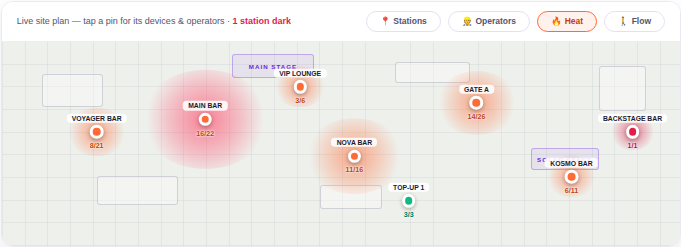
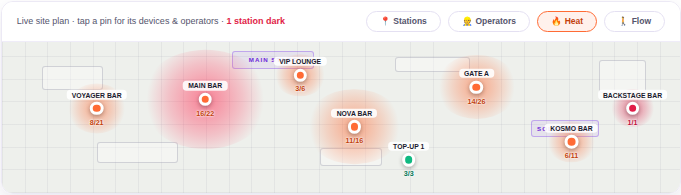
Sales pitch pack v8: bar & operator performance with River view mockup
Event Ops page gains a Bar & operator performance feature and a mockup of
the Flow board's River view in operators-only mode: one flowing lane per
bartender whose width is money through that till, with per-operator sales
and rands-per-hour, a star performer and an idle-till flag. Deck ops slide
carries the River image alongside the site map; live-updates and alerts
bullets merged to fit.

Claude-Session: https://claude.ai/code/session_016kfeoZ1Zgn8t5cLdc8YKFo

diff --git a/docs/sales-collateral/pulse-pitch.src.html b/docs/sales-collateral/pulse-pitch.src.html
@@ -128,13 +128,13 @@
   .jconv { margin-top: 2.4mm; font-size: 9px; font-weight: 800; color: #059669; }
 
   /* ---------- Site map mockup ---------- */
-  .sitemap { margin-top: 5mm; border: 1px solid #ece9f5; border-radius: 12px; overflow: hidden; box-shadow: 0 2mm 5mm rgba(45,43,85,.10); }
+  .sitemap { margin-top: 4mm; border: 1px solid #ece9f5; border-radius: 12px; overflow: hidden; box-shadow: 0 2mm 5mm rgba(45,43,85,.10); }
   .sm-bar { display: flex; align-items: center; gap: 2mm; padding: 2.4mm 4mm; background: #fff; border-bottom: 1px solid #efecf8; }
   .sm-bar .cap { font-size: 9px; color: #55556d; margin-right: auto; }
   .sm-bar .cap b.dark { color: #e11d48; }
   .sm-tab { font-size: 8.5px; font-weight: 800; border: 1px solid #e4e0f2; border-radius: 99px; padding: 1.2mm 3.4mm; color: #55556d; }
   .sm-tab.on { background: #fff1ec; border-color: #FF6B35; color: #c2410c; }
-  .sm-map { position: relative; height: 54mm; background: #eef0ec;
+  .sm-map { position: relative; height: 40mm; background: #eef0ec;
     background-image: repeating-linear-gradient(0deg, rgba(45,43,85,.06) 0, rgba(45,43,85,.06) .25mm, transparent .25mm, transparent 6mm),
                       repeating-linear-gradient(90deg, rgba(45,43,85,.06) 0, rgba(45,43,85,.06) .25mm, transparent .25mm, transparent 6mm); }
   .blk { position: absolute; border: .4mm solid rgba(45,43,85,.18); background: rgba(255,255,255,.35); border-radius: .8mm; }
@@ -239,10 +239,27 @@
   .adchip { font-size: 6.8px; font-weight: 800; border-radius: 99px; padding: 1mm 2.4mm; background: rgba(16,185,129,.12); color: #047857; }
   .ad-note { font-size: 7.2px; color: #9a97ad; padding: 0 3mm 2.6mm; }
 
+  /* ---------- River (operators) mockup ---------- */
+  .river { margin-top: 3.5mm; border: 1px solid #ece9f5; border-radius: 12px; overflow: hidden; box-shadow: 0 2mm 5mm rgba(45,43,85,.10); }
+  .rv-bar { display: flex; align-items: center; gap: 2mm; padding: 2.2mm 4mm; background: #fff; border-bottom: 1px solid #efecf8; }
+  .rv-bar .cap { font-size: 9px; color: #55556d; margin-right: auto; }
+  .rv-body { background: #fdfdfb; padding: 2mm 4mm 1.2mm; }
+  .rv-row { display: flex; align-items: center; gap: 3mm; margin-bottom: .9mm; }
+  .rv-who { width: 26mm; flex-shrink: 0; }
+  .rv-who b { font-size: 8.4px; display: block; }
+  .rv-who span { font-size: 6.8px; color: #9a97ad; }
+  .rv-lane { flex: 1; height: 5.8mm; }
+  .rv-lane svg { width: 100%; height: 100%; display: block; }
+  .rv-num { width: 25mm; flex-shrink: 0; text-align: right; }
+  .rv-num b { font-size: 8.8px; display: block; }
+  .rv-num span { font-size: 6.8px; color: #9a97ad; }
+  .rv-num .warn { color: #e11d48; font-weight: 800; }
+  .rv-axis { display: flex; justify-content: space-between; font-size: 6.6px; color: #9a97ad; padding: 1mm 4mm 0 33mm; margin-right: 25mm; }
+
   /* ---------- Page 5 event ops ---------- */
   .ops-wrap { display: flex; gap: 6mm; margin-top: 5mm; }
-  .ops-feats { flex: 1.06; display: flex; flex-direction: column; gap: 2.9mm; }
-  .ops-feat { font-size: 10.3px; line-height: 1.5; color: #44445c; }
+  .ops-feats { flex: 1.06; display: flex; flex-direction: column; gap: 2.4mm; }
+  .ops-feat { font-size: 9.7px; line-height: 1.42; color: #44445c; }
   .ops-feat b { color: #1a1a2e; font-weight: 800; }
   .opsboard { width: 84mm; border: 1px solid #ece9f5; border-radius: 12px; overflow: hidden; box-shadow: 0 3mm 6mm rgba(45,43,85,.12); align-self: flex-start; }
   .opsboard .ob-head { background: #1a1a2e; color: #fff; padding: 2.6mm 3.5mm; display: flex; justify-content: space-between; align-items: center; }
@@ -583,11 +600,11 @@
     <div class="ops-feats">
       <div class="ops-feat"><b>🗺 The live overview</b>: one board with the whole operation: device counts by state, per-station deployment, open issues and a live activity feed. The "where is everything right now" view.</div>
       <div class="ops-feat"><b>📟 Every device tracked</b>: scanners, payment devices, radios, printers: bulk-register a batch, then <b>scan to move</b> between the store and stations. Every move lands in an append-only audit trail, nothing is lost to memory, and every device is accounted for at event close.</div>
-      <div class="ops-feat"><b>🔥 Hotspots &amp; the heat map</b>: every station's activity through the day in time blocks: watch the crowd move from gates to bars, spot the station that's overloaded and the one that's dead, and staff accordingly, tonight and next year.</div>
+      <div class="ops-feat"><b>🔥 Hotspots &amp; the heat map</b>: every station's activity in time blocks: watch the crowd move from gates to bars, spot the overloaded station and the dead one, staff accordingly.</div>
+      <div class="ops-feat"><b>🍹 Bar &amp; operator performance</b>: every bar and every bartender, live: sales and rands-per-hour per operator, who's flying and which till has gone quiet. Praise the stars at the debrief; fix the slow lane before the queue grows.</div>
       <div class="ops-feat"><b>📶 Connectivity &amp; data health</b>: is data from every station actually arriving? Minutes-since-last-record per station with alerting when a stream goes quiet; a device roster showing exactly <b>which units are offline and for how long</b>. You'll know a scanner died before the queue does.</div>
-      <div class="ops-feat"><b>🩺 AI Diagnose + event report</b>: one tap per station gets an AI verdict with ranked concerns and a suggested fix; after the event, an AI-drafted diagnostics report for the debrief, with a connectivity section clean enough to forward to the network provider.</div>
-      <div class="ops-feat"><b>⚡ Live updates while doors are open</b>: a compact multi-metric report to the team every 15–120 minutes: people through the gates with pace per hour, bar revenue, top-3 vendors, device health, % of last year, to inbox, push, SMS and WhatsApp.</div>
-      <div class="ops-feat"><b>🚨 Alerts on any number</b>: "tell me when VIP drops below 100": Pulse watches it and taps you on the shoulder the moment it crosses. Cooldowns and quiet hours keep it calm.</div>
+      <div class="ops-feat"><b>🩺 AI Diagnose + event report</b>: one-tap AI verdicts per station, and a post-event diagnostics report clean enough to forward to the network provider.</div>
+      <div class="ops-feat"><b>⚡ Live updates &amp; alerts</b>: a compact multi-metric report every 15–120 minutes while doors are open (gates pace, bar revenue, top vendors, device health) to inbox, push, SMS and WhatsApp, plus threshold alerts on any number, with cooldowns and quiet hours.</div>
     </div>
 
     <div class="opsboard">
@@ -655,20 +672,41 @@
   </div>
   <div style="font-size:9px; color:#9a97ad; margin-top:1.6mm; font-style:italic;">Your venue's own site plan, live: every station pinned, heat showing where the crowd is spending right now, and a dark station flagged the moment its data stops flowing.</div>
 
-  <div style="display:flex; gap:4mm; margin-top:4mm;">
-    <div style="flex:1; border-radius:12px; padding:4mm 4.5mm; color:#fff; background:linear-gradient(135deg,#06B6D4,#0891b2);">
-      <div style="font-size:11.5px; font-weight:900; margin-bottom:1.6mm;">🧾 At event close</div>
-      <div style="font-size:9.8px; line-height:1.5; opacity:.94;">Every device accounted for, no "missing" unknowns, and a full history of where each one went, who moved it and what went wrong.</div>
+    <div class="river">
+    <div class="rv-bar">
+      <div class="cap">🌊 The River · every operator's night as a flowing lane · <b>👤 Operators · all bars</b></div>
+      <span class="sm-tab">🐝 Board</span><span class="sm-tab">📈 Rhythm</span><span class="sm-tab on">🌊 River</span><span class="sm-tab">🕸 Network</span>
     </div>
-    <div style="flex:1; border-radius:12px; padding:4mm 4.5mm; color:#fff; background:linear-gradient(135deg,#7C3AED,#5b21b6);">
-      <div style="font-size:11.5px; font-weight:900; margin-bottom:1.6mm;">📱 The whole night, one thread</div>
-      <div style="font-size:9.8px; line-height:1.5; opacity:.94;">Live updates stack into a single inbox thread, scroll the night's story at the debrief, from doors to last call.</div>
-    </div>
-    <div style="flex:1; border-radius:12px; padding:4mm 4.5mm; color:#fff; background:linear-gradient(135deg,#1a1a2e,#2d2b55);">
-      <div style="font-size:11.5px; font-weight:900; margin-bottom:1.6mm;">📶 Evidence, not arguments</div>
-      <div style="font-size:9.8px; line-height:1.5; opacity:.94;">If connectivity was the culprit, the AI report gives you a neutral, data-backed section you can forward straight to the network provider.</div>
+    <div class="rv-body">
+      <div class="rv-row">
+        <div class="rv-who"><b>Thabo M.</b><span>Main Bar · till 4</span></div>
+        <div class="rv-lane"><svg viewBox="0 0 300 26" preserveAspectRatio="none"><polygon points="0.0,10 42.9,7 85.7,4 128.6,2 171.4,4 214.3,1 257.1,3 300.0,6 300.0,20 257.1,23 214.3,25 171.4,22 128.6,24 85.7,22 42.9,19 0.0,16" fill="#FF385C" opacity="0.8"/></svg></div>
+        <div class="rv-num"><b>R48 250</b><span>412 sales · R8.0k/hr ⭐</span></div>
+      </div>
+      <div class="rv-row">
+        <div class="rv-who"><b>Lerato K.</b><span>Main Bar · till 2</span></div>
+        <div class="rv-lane"><svg viewBox="0 0 300 26" preserveAspectRatio="none"><polygon points="0.0,11 42.9,8 85.7,5 128.6,4 171.4,3 214.3,4 257.1,5 300.0,7 300.0,19 257.1,21 214.3,22 171.4,23 128.6,22 85.7,21 42.9,18 0.0,15" fill="#FF6B35" opacity="0.8"/></svg></div>
+        <div class="rv-num"><b>R41 900</b><span>388 sales · R7.0k/hr</span></div>
+      </div>
+      <div class="rv-row">
+        <div class="rv-who"><b>Sipho D.</b><span>Solar Bar · till 1</span></div>
+        <div class="rv-lane"><svg viewBox="0 0 300 26" preserveAspectRatio="none"><polygon points="0.0,11 42.9,9 85.7,7 128.6,5 171.4,6 214.3,5 257.1,7 300.0,8 300.0,18 257.1,19 214.3,21 171.4,20 128.6,21 85.7,19 42.9,17 0.0,15" fill="#FFB020" opacity="0.8"/></svg></div>
+        <div class="rv-num"><b>R33 400</b><span>301 sales · R5.6k/hr</span></div>
+      </div>
+      <div class="rv-row">
+        <div class="rv-who"><b>Naledi P.</b><span>VIP Bar · till 1</span></div>
+        <div class="rv-lane"><svg viewBox="0 0 300 26" preserveAspectRatio="none"><polygon points="0.0,12 42.9,10 85.7,8 128.6,7 171.4,6 214.3,7 257.1,6 300.0,8 300.0,18 257.1,20 214.3,19 171.4,20 128.6,19 85.7,18 42.9,16 0.0,14" fill="#7C3AED" opacity="0.8"/></svg></div>
+        <div class="rv-num"><b>R28 750</b><span>246 sales · R4.8k/hr</span></div>
+      </div>
+      <div class="rv-row">
+        <div class="rv-who"><b>Kea R.</b><span>Kosmo Bar · till 3</span></div>
+        <div class="rv-lane"><svg viewBox="0 0 300 26" preserveAspectRatio="none"><polygon points="0.0,11 42.9,9 85.7,10 128.6,11 171.4,12 214.3,12.4 257.1,12.6 300.0,12.7 300.0,13.3 257.1,13.4 214.3,13.6 171.4,14 128.6,15 85.7,16 42.9,17 0.0,15" fill="#94a3b8" opacity="0.8"/></svg></div>
+        <div class="rv-num"><b>R9 120</b><span class="warn">⚠ idle 25 min</span></div>
+      </div>
+      <div class="rv-axis"><span>18:00</span><span>19:00</span><span>20:00</span><span>21:00</span><span>22:00</span><span>23:00</span></div>
     </div>
   </div>
+  <div class="mockcap">Bar &amp; operator performance, live: the lane's width is money flowing through that operator's till. Thabo is carrying Main Bar; Kea's lane has run dry, someone should check till 3. Names illustrative; the view is real.</div>
 
   <div class="foot"><span style="display:flex; align-items:center; gap:1.6mm;"><img src="howler-logo.png" style="width:3.6mm; height:3.6mm; border-radius:1mm;"><b>Pulse</b> · The Experience OS by Howler</span><span>howler-pulse-v2.onrender.com</span><span>Page 5 of 7</span></div>
 </div>

diff --git a/docs/sales-collateral/make-deck.src.js b/docs/sales-collateral/make-deck.src.js
@@ -167,14 +167,14 @@ s.addText('“From seeing a cohort to a live journey, an ad audience and tracked
 /* ---------- 9 · RUN / EVENT OPS ---------- */
 s = contentSlide('🎪  RUN · Event Ops, your operations command centre', 'the gates, the bars, the devices, the data itself, one live board', CYAN, 9);
 feat(s, 0.5, 1.5, 5.9, 'The live site map', null, 'your venue’s own plan with every station pinned: heat shows where the crowd is spending right now; a dark station is flagged the moment its data stops.');
-feat(s, 0.5, 2.62, 5.9, 'Hotspots & the heat map', null, 'station activity through the day in time blocks: watch the crowd move, spot the overloaded station and the dead one, staff accordingly.');
+feat(s, 0.5, 2.62, 5.9, 'Bar & operator performance', null, 'every bar and every bartender, live: sales and rands-per-hour per operator, who is flying and which till has gone quiet. The River view turns the night into flowing lanes.');
 feat(s, 0.5, 3.74, 5.9, 'Every device tracked', null, 'scan to move between store and stations; append-only audit trail; every device accounted for at event close.');
 feat(s, 0.5, 4.72, 5.9, 'Connectivity & data health', null, 'stream watch per station and a roster of exactly which units are offline and for how long. Know a scanner died before the queue does.');
 feat(s, 0.5, 5.84, 5.9, 'AI Diagnose · live updates · alerts', null, 'one-tap AI verdicts per station, a multi-metric mini report every 15–120 min while doors are open, and threshold alerts on any number.');
-s.addImage({ path: 'sitemap.png', x: 6.75, y: 1.6, w: 6.1, h: 2.23 });
-s.addText('The Flow board’s live site map, stations, heat and a dark station, on your own venue plan.', { x: 6.75, y: 3.9, w: 6.1, h: 0.5, fontSize: 10, italic: true, color: GREY, fontFace: F });
-s.addShape('roundRect', { x: 6.75, y: 4.55, w: 6.1, h: 2.0, rectRadius: 0.1, fill: { color: 'F0FBFD' }, line: { color: CYAN, width: 1 } });
-s.addText([{ text: '“You’ll know a hotspot is forming, or a scanner has died, before anyone on the ground has to tell you.”', options: { italic: true, bold: true, color: '0E7490' } }], { x: 7.0, y: 4.7, w: 5.6, h: 1.7, fontSize: 14, align: 'center', valign: 'middle', fontFace: F, lineSpacing: 20 });
+s.addImage({ path: 'sitemap.png', x: 6.75, y: 1.55, w: 6.1, h: 2.06 });
+s.addText('The live site map: stations, heat and a dark station, on your own venue plan.', { x: 6.75, y: 3.63, w: 6.1, h: 0.32, fontSize: 9.5, italic: true, color: GREY, fontFace: F });
+s.addImage({ path: 'river.png', x: 6.75, y: 4.1, w: 6.1, h: 2.15 });
+s.addText('The River, operators only: each lane is money flowing through one bartender’s till.', { x: 6.75, y: 6.28, w: 6.1, h: 0.32, fontSize: 9.5, italic: true, color: GREY, fontFace: F });
 
 /* ---------- 8 · OWN ---------- */
 s = contentSlide('🔒  OWN · white-label, security & openness', 'your brand, your accounts, your data', NAVY, 10);